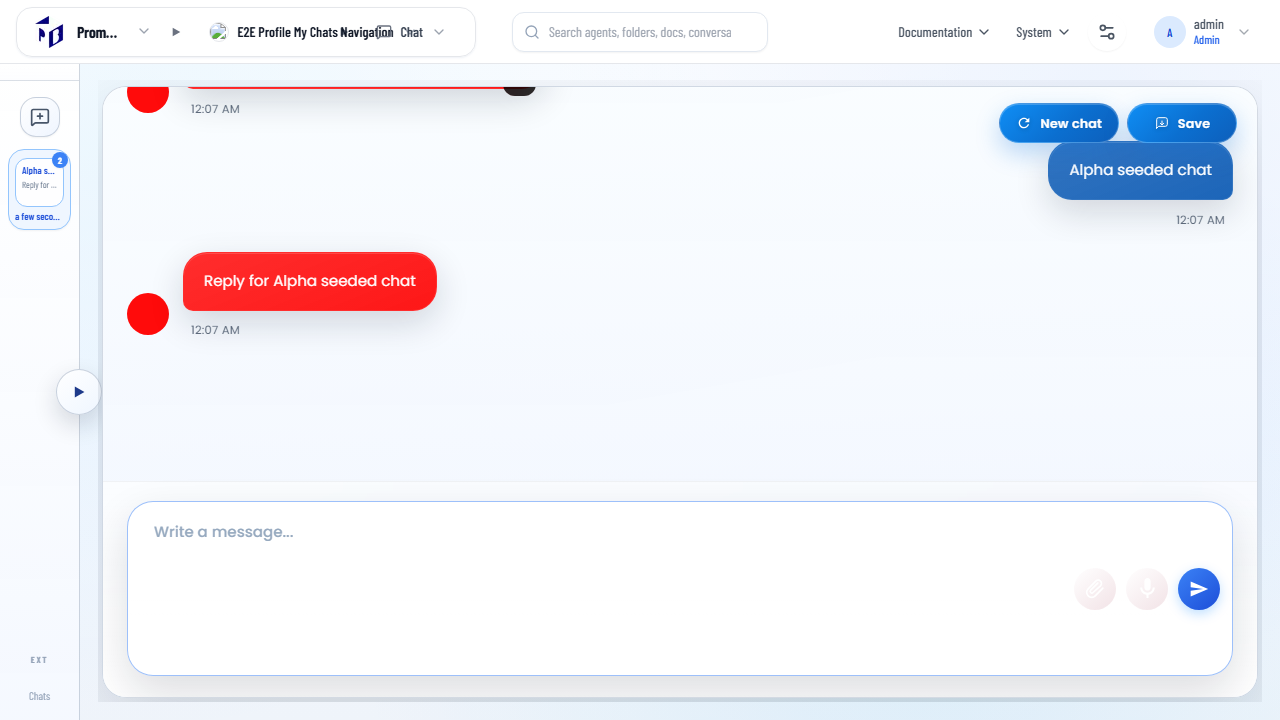
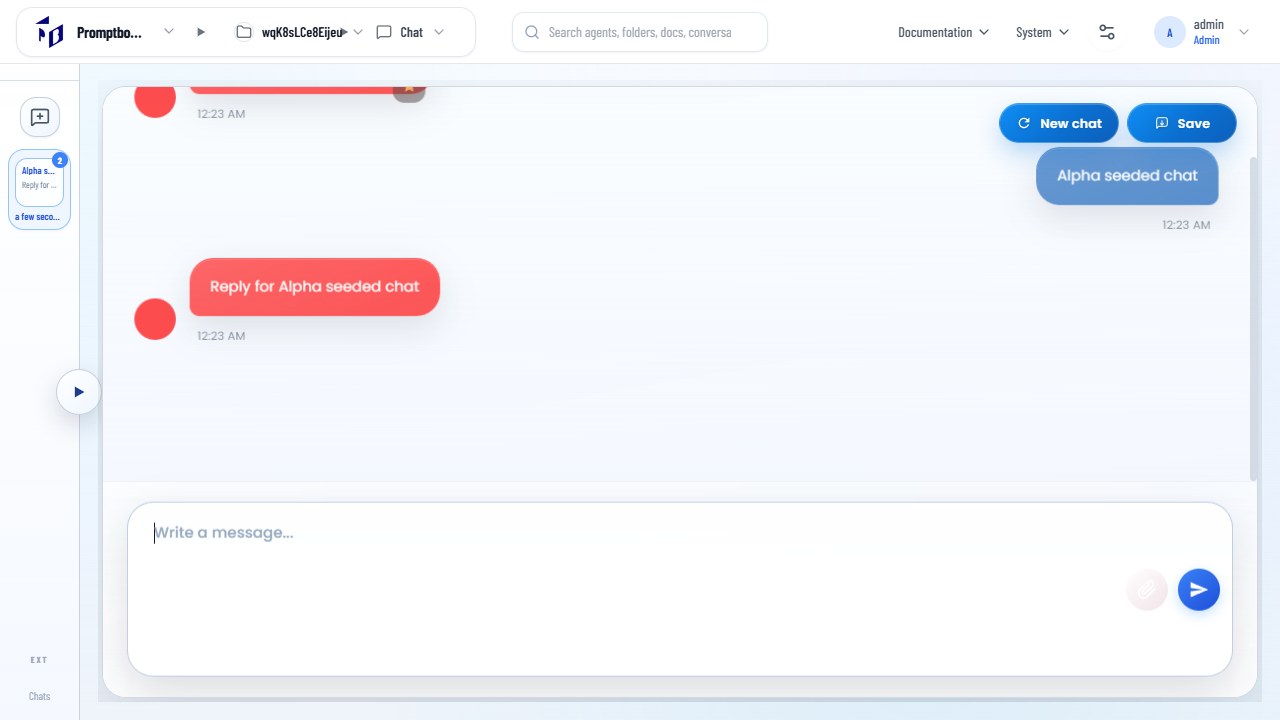
Failed tests

diff --git a/other/integration-tests/videos/chat-history-navigation-Ag-6000a--existing-chat-preview-card-chromium/error-context.md b/other/integration-tests/videos/chat-history-navigation-Ag-6000a--existing-chat-preview-card-chromium/error-context.md
@@ -14,107 +14,96 @@
             - button "Switch server" [ref=e13] [cursor=pointer]:
               - img [ref=e14]
           - img [ref=e16]
-          - button "E2E Profile My Chats Navigation avatar E2E Profile My Chats Navigation" [ref=e20] [cursor=pointer]:
+          - button "wqK8sLCe8Eijeu" [ref=e20] [cursor=pointer]:
             - generic [ref=e21]:
-              - img "E2E Profile My Chats Navigation avatar" [ref=e23]
-              - generic [ref=e24]: E2E Profile My Chats Navigation
-            - img [ref=e25]
-          - img [ref=e27]
-          - button "Chat" [ref=e31] [cursor=pointer]:
-            - generic [ref=e32]:
-              - img [ref=e33]
-              - generic [ref=e35]: Chat
-            - img [ref=e36]
-        - generic [ref=e40]:
-          - generic [ref=e41]: Global search
-          - generic [ref=e42]:
+              - img [ref=e23]
+              - generic [ref=e25]: wqK8sLCe8Eijeu
+            - img [ref=e26]
+          - img [ref=e28]
+          - button "Chat" [ref=e32] [cursor=pointer]:
+            - generic [ref=e33]:
+              - img [ref=e34]
+              - generic [ref=e36]: Chat
+            - img [ref=e37]
+        - generic [ref=e41]:
+          - generic [ref=e42]: Global search
+          - generic [ref=e43]:
             - img
-            - combobox "Global search" [ref=e43]
-        - generic [ref=e44]:
-          - navigation [ref=e45]:
-            - button "Documentation" [ref=e47] [cursor=pointer]:
+            - combobox "Global search" [ref=e44]
+        - generic [ref=e45]:
+          - navigation [ref=e46]:
+            - button "Documentation" [ref=e48] [cursor=pointer]:
               - text: Documentation
-              - img [ref=e48]
-            - button "System" [ref=e51] [cursor=pointer]:
+              - img [ref=e49]
+            - button "System" [ref=e52] [cursor=pointer]:
               - text: System
-              - img [ref=e52]
-          - button "Open global control panel" [ref=e55] [cursor=pointer]:
-            - img [ref=e56]
-            - generic [ref=e59]: Control panel
-          - button "A admin Admin" [ref=e62] [cursor=pointer]:
-            - generic [ref=e64]: A
-            - generic [ref=e65]:
-              - generic [ref=e66]: admin
-              - generic [ref=e67]: Admin
-            - img [ref=e68]
-    - main [ref=e70]:
-      - main [ref=e71]:
-        - generic [ref=e72]:
-          - complementary [ref=e73]:
-            - button "Expand sidebar" [ref=e75] [cursor=pointer]:
-              - img [ref=e76]
-            - generic [ref=e79]:
-              - button "New chat" [ref=e80] [cursor=pointer]:
-                - img [ref=e81]
-              - button "Alpha seeded chat - Reply for Alpha seeded chat (2 messages, a few seconds ago)" [ref=e84] [cursor=pointer]:
-                - generic "2 messages" [ref=e86]: "2"
-                - generic [ref=e87]:
-                  - generic [ref=e88]: Alpha seeded chat
-                  - generic [ref=e89]: Reply for Alpha seeded chat
-                - generic [ref=e90]: a few seconds ago
-              - button "EXT" [ref=e92] [cursor=pointer]
-              - paragraph [ref=e93]: Chats
-          - generic [ref=e98]:
-            - generic [ref=e99]:
-              - button "New chat" [ref=e100] [cursor=pointer]:
-                - img [ref=e101]
-                - generic [ref=e103]: New chat
-              - button "Save" [ref=e105] [cursor=pointer]:
-                - img [ref=e106]
-                - generic [ref=e109]: Save
-            - generic [ref=e110]:
-              - generic [ref=e114]:
-                - generic [ref=e115]:
-                  - generic [ref=e116]:
-                    - button "Read message aloud" [ref=e117] [cursor=pointer]:
-                      - img [ref=e118]
-                    - button "Copy message" [ref=e120] [cursor=pointer]:
-                      - img [ref=e121]
-                  - paragraph [ref=e126]: Hello! I am E2E Profile My Chats Navigation.
-                  - generic [ref=e128] [cursor=pointer]: ⭐
-                - generic "2026-04-04 00:07:40" [ref=e129]:
-                  - generic [ref=e130]: 12:07 AM
-              - generic [ref=e132]:
-                - generic [ref=e133]:
-                  - generic [ref=e134]:
-                    - button "Read message aloud" [ref=e135] [cursor=pointer]:
-                      - img [ref=e136]
-                    - button "Copy message" [ref=e138] [cursor=pointer]:
-                      - img [ref=e139]
-                  - paragraph [ref=e144]: Alpha seeded chat
-                  - generic [ref=e146] [cursor=pointer]: ⭐
-                - generic "2026-04-04 00:07:40" [ref=e147]:
-                  - generic [ref=e148]: 12:07 AM
-              - generic [ref=e152]:
-                - generic [ref=e153]:
-                  - generic [ref=e154]:
-                    - button "Read message aloud" [ref=e155] [cursor=pointer]:
-                      - img [ref=e156]
-                    - button "Copy message" [ref=e158] [cursor=pointer]:
-                      - img [ref=e159]
-                  - paragraph [ref=e164]: Reply for Alpha seeded chat
-                  - generic [ref=e166] [cursor=pointer]: ⭐
-                - generic "2026-04-04 00:07:40" [ref=e167]:
-                  - generic [ref=e168]: 12:07 AM
-            - generic [ref=e171]:
-              - textbox "Write a message..." [active] [ref=e172]
-              - button "Attach file" [ref=e173] [cursor=pointer]:
-                - img [ref=e174]
-              - button "Start dictation" [ref=e176] [cursor=pointer]:
-                - img [ref=e177]
-              - button [ref=e180] [cursor=pointer]:
-                - img [ref=e181]
+              - img [ref=e53]
+          - button "Open global control panel" [ref=e56] [cursor=pointer]:
+            - img [ref=e57]
+            - generic [ref=e60]: Control panel
+          - button "A admin Admin" [ref=e63] [cursor=pointer]:
+            - generic [ref=e65]: A
+            - generic [ref=e66]:
+              - generic [ref=e67]: admin
+              - generic [ref=e68]: Admin
+            - img [ref=e69]
+    - main [ref=e71]:
+      - main [ref=e72]:
+        - generic [ref=e73]:
+          - complementary [ref=e74]:
+            - button "Expand sidebar" [ref=e76] [cursor=pointer]:
+              - img [ref=e77]
+            - generic [ref=e80]:
+              - button "New chat" [ref=e81] [cursor=pointer]:
+                - img [ref=e82]
+              - button "Alpha seeded chat - Reply for Alpha seeded chat (2 messages, a few seconds ago)" [ref=e85] [cursor=pointer]:
+                - generic "2 messages" [ref=e87]: "2"
+                - generic [ref=e88]:
+                  - generic [ref=e89]: Alpha seeded chat
+                  - generic [ref=e90]: Reply for Alpha seeded chat
+                - generic [ref=e91]: a few seconds ago
+              - button "EXT" [ref=e93] [cursor=pointer]
+              - paragraph [ref=e94]: Chats
+          - generic [ref=e99]:
+            - generic [ref=e100]:
+              - button "New chat" [ref=e101] [cursor=pointer]:
+                - img [ref=e102]
+                - generic [ref=e104]: New chat
+              - button "Save" [ref=e106] [cursor=pointer]:
+                - img [ref=e107]
+                - generic [ref=e110]: Save
+            - generic [ref=e111]:
+              - generic [ref=e115]:
+                - generic [ref=e116]:
+                  - button "Copy message" [ref=e118] [cursor=pointer]:
+                    - img [ref=e119]
+                  - paragraph [ref=e124]: Hello! I am wqK8sLCe8Eijeu.
+                  - generic [ref=e126] [cursor=pointer]: ⭐
+                - generic "2026-04-04 00:23:25" [ref=e127]:
+                  - generic [ref=e128]: 12:23 AM
+              - generic [ref=e130]:
+                - generic [ref=e131]:
+                  - button "Copy message" [ref=e133] [cursor=pointer]:
+                    - img [ref=e134]
+                  - paragraph [ref=e139]: Alpha seeded chat
+                  - generic [ref=e141] [cursor=pointer]: ⭐
+                - generic "2026-04-04 00:23:25" [ref=e142]:
+                  - generic [ref=e143]: 12:23 AM
+              - generic [ref=e147]:
+                - generic [ref=e148]:
+                  - button "Copy message" [ref=e150] [cursor=pointer]:
+                    - img [ref=e151]
+                  - paragraph [ref=e156]: Reply for Alpha seeded chat
+                  - generic [ref=e158] [cursor=pointer]: ⭐
+                - generic "2026-04-04 00:23:25" [ref=e159]:
+                  - generic [ref=e160]: 12:23 AM
+            - generic [ref=e163]:
+              - textbox "Write a message..." [active] [ref=e164]
+              - button "Attach file" [ref=e165] [cursor=pointer]:
+                - img [ref=e166]
+              - button [ref=e168] [cursor=pointer]:
+                - img [ref=e169]
   - generic:
     - region "Notifications"
-  - alert [ref=e183]
+  - alert [ref=e171]
 ```

diff --git a/other/integration-tests/videos/chat-history-navigation-Ag-2355b-es-not-open-a-native-dialog-chromium/error-context.md b/other/integration-tests/videos/chat-history-navigation-Ag-2355b-es-not-open-a-native-dialog-chromium/error-context.md
@@ -14,10 +14,10 @@
             - button "Switch server" [ref=e13] [cursor=pointer]:
               - img [ref=e14]
           - img [ref=e16]
-          - button "kEuRP2vPEH9N5k" [ref=e20] [cursor=pointer]:
+          - button "J4tioPyDNwPyf8" [ref=e20] [cursor=pointer]:
             - generic [ref=e21]:
               - img [ref=e23]
-              - generic [ref=e25]: kEuRP2vPEH9N5k
+              - generic [ref=e25]: J4tioPyDNwPyf8
             - img [ref=e26]
           - img [ref=e28]
           - button "Chat" [ref=e32] [cursor=pointer]: